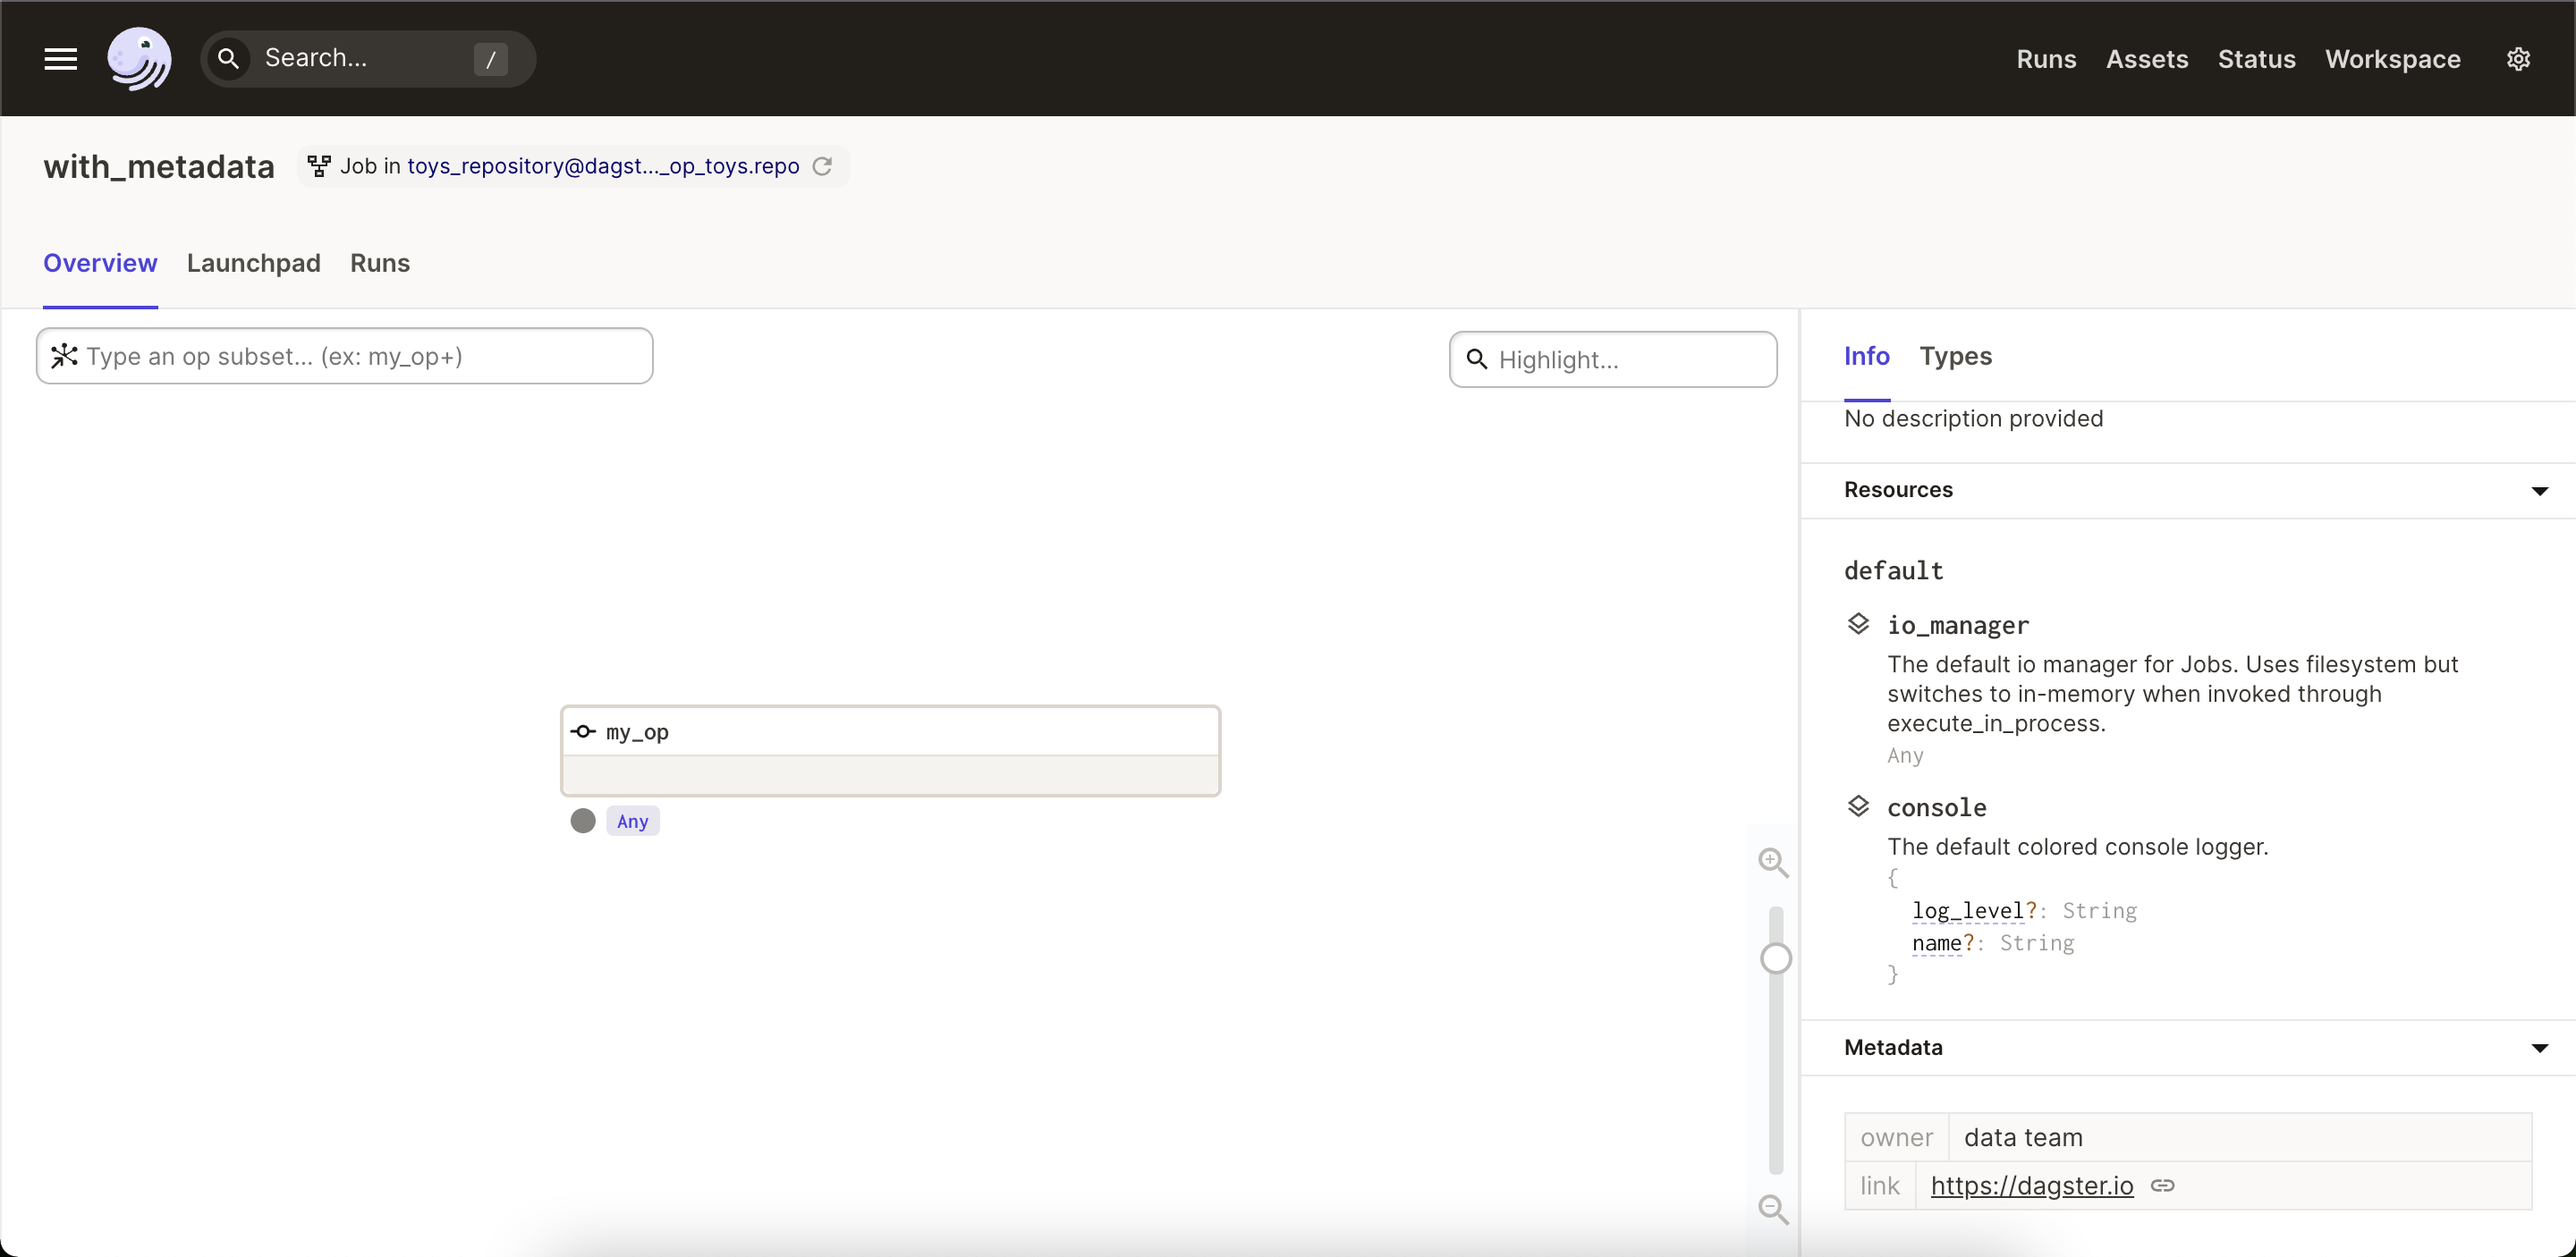
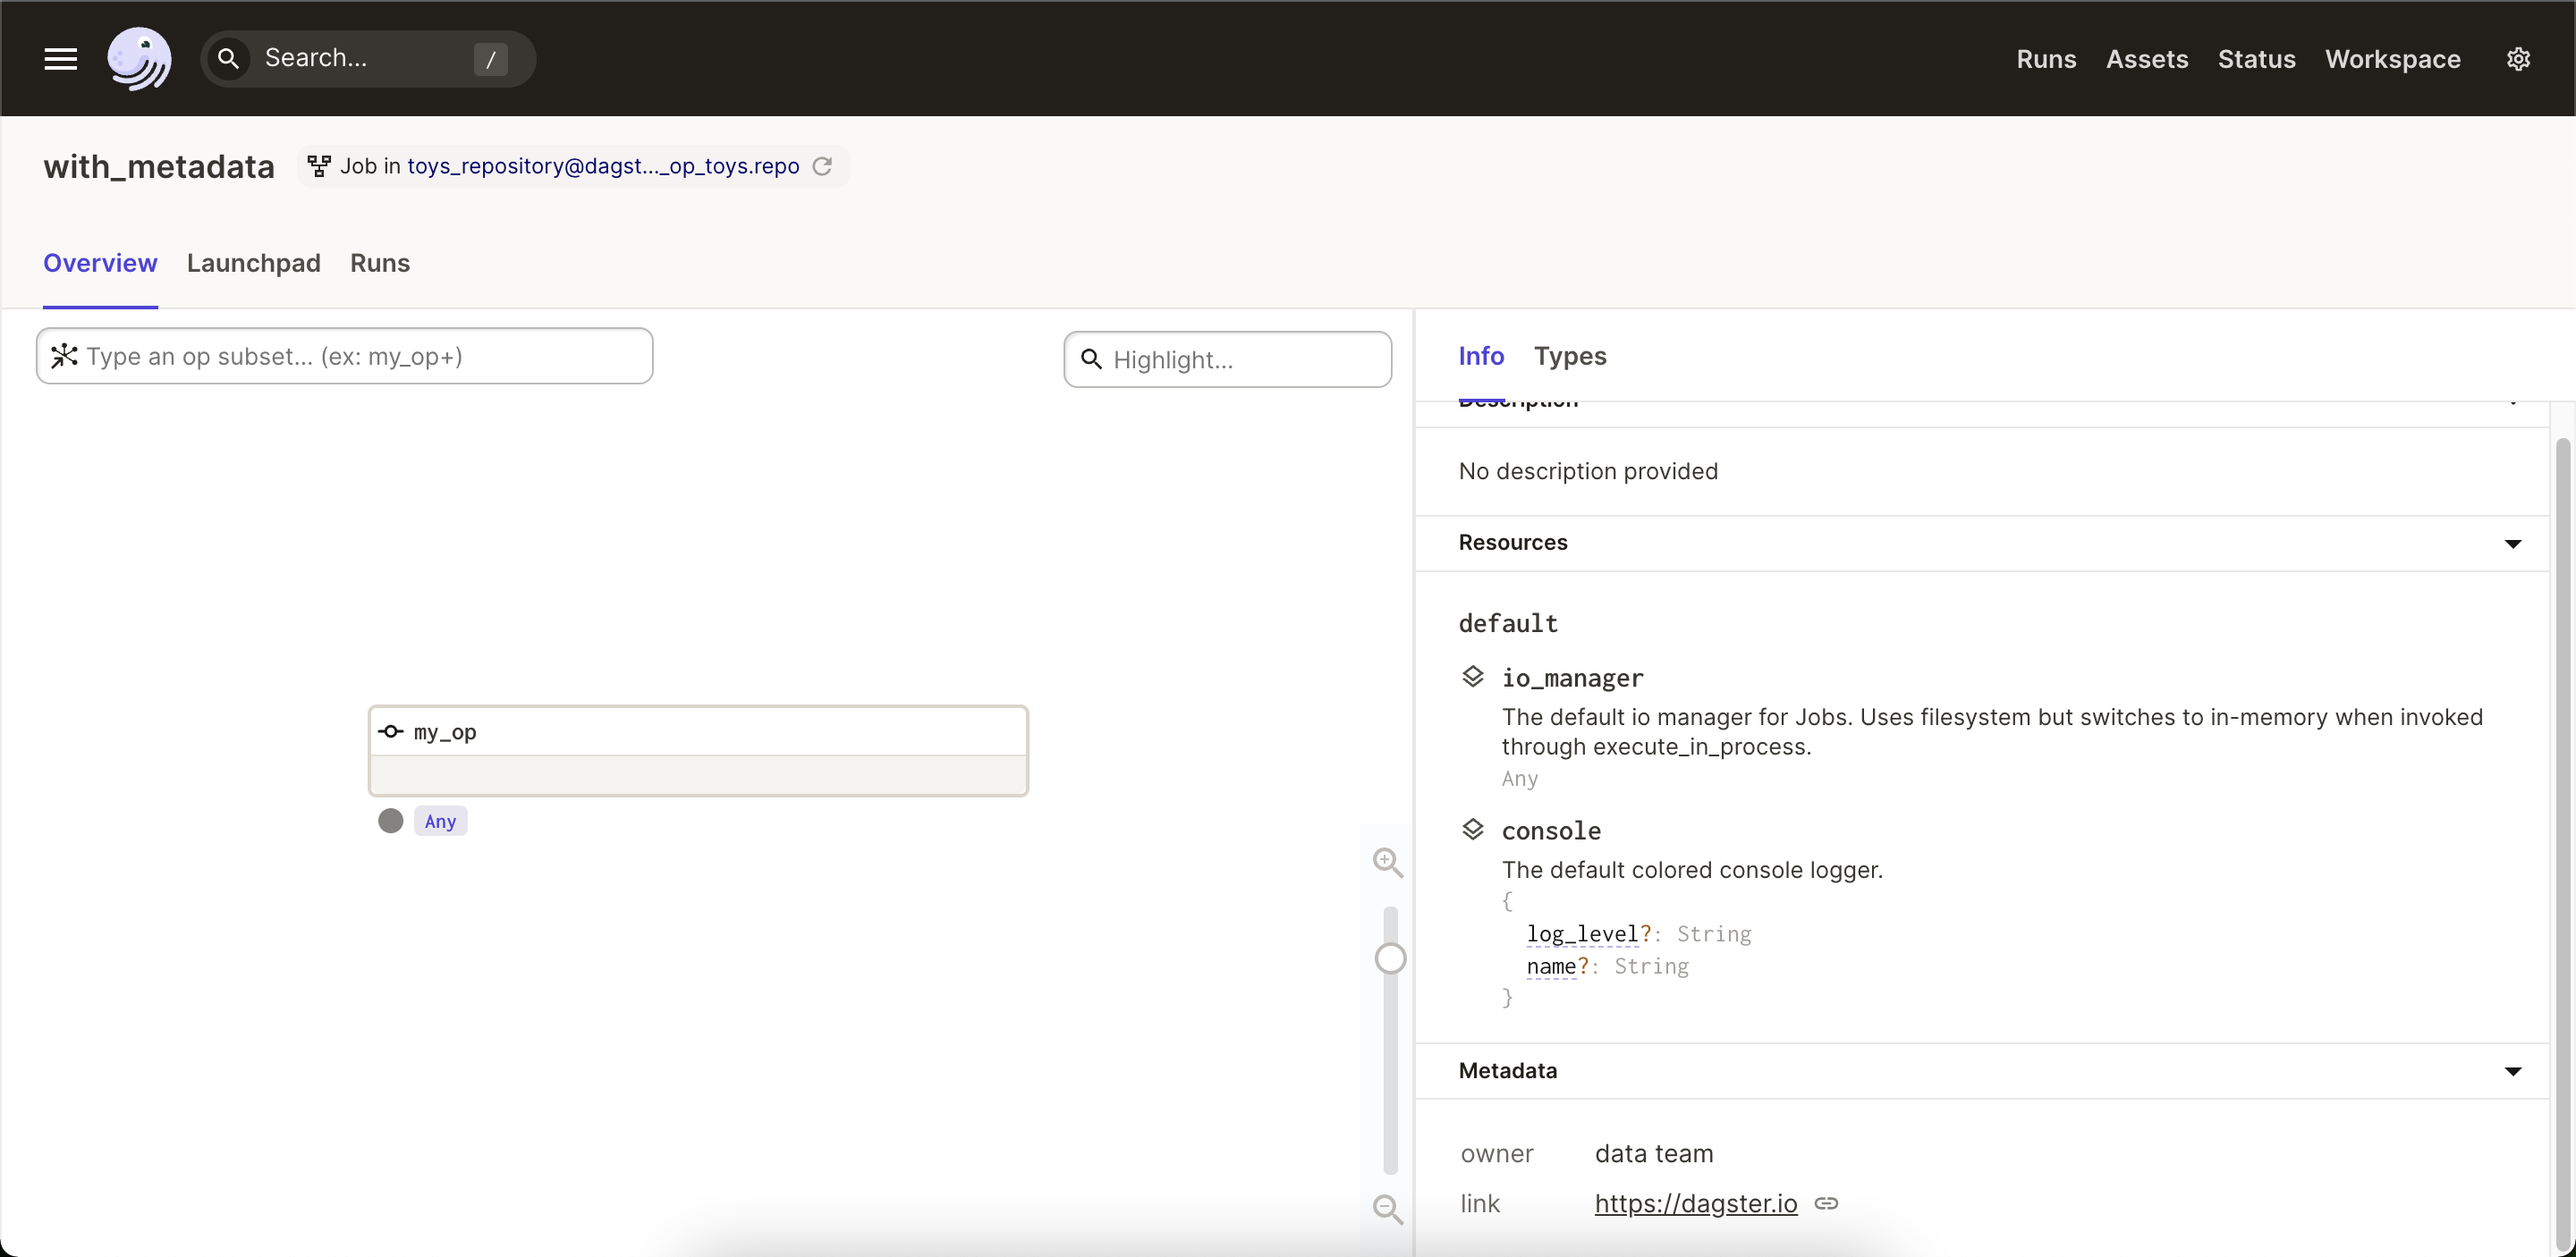
update metadata table

diff --git a/js_modules/dagit/packages/core/src/pipelines/SidebarPipelineOrJobOverview.tsx b/js_modules/dagit/packages/core/src/pipelines/SidebarPipelineOrJobOverview.tsx
@@ -1,10 +1,10 @@
 import {gql, useQuery} from '@apollo/client';
-import {Box} from '@dagster-io/ui';
+import {Box, MetadataTable} from '@dagster-io/ui';
 import * as React from 'react';
 
 import {PYTHON_ERROR_FRAGMENT} from '../app/PythonErrorInfo';
-import {METADATA_ENTRY_FRAGMENT, MetadataEntries} from '../metadata/MetadataEntry';
-import {RunTag} from '../runs/RunTag';
+import {METADATA_ENTRY_FRAGMENT, MetadataEntry} from '../metadata/MetadataEntry';
+
 import {PipelineSelector} from '../types/globalTypes';
 import {Loading} from '../ui/Loading';
 import {isThisThingAJob, useRepository} from '../workspace/WorkspaceContext';
@@ -44,6 +44,13 @@ export const SidebarPipelineOrJobOverview: React.FC<{
 
         const modes = pipelineSnapshotOrError.modes;
 
+        const metadataRows = pipelineSnapshotOrError.metadataEntries.map((entry) => {
+          return {
+            key: entry.label,
+            value: <MetadataEntry entry={entry} />,
+          };
+        });
+
         return (
           <>
             <SidebarSection title="Description">
@@ -62,7 +69,7 @@ export const SidebarPipelineOrJobOverview: React.FC<{
             </SidebarSection>
             <SidebarSection title="Metadata">
               <Box padding={{vertical: 16, horizontal: 24}}>
-                <MetadataEntries entries={pipelineSnapshotOrError.metadataEntries} />
+              <MetadataTable rows={metadataRows} />
               </Box>
             </SidebarSection>
           </>
